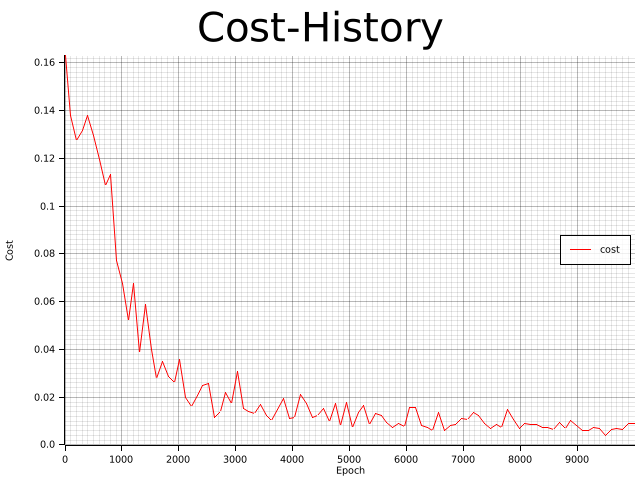
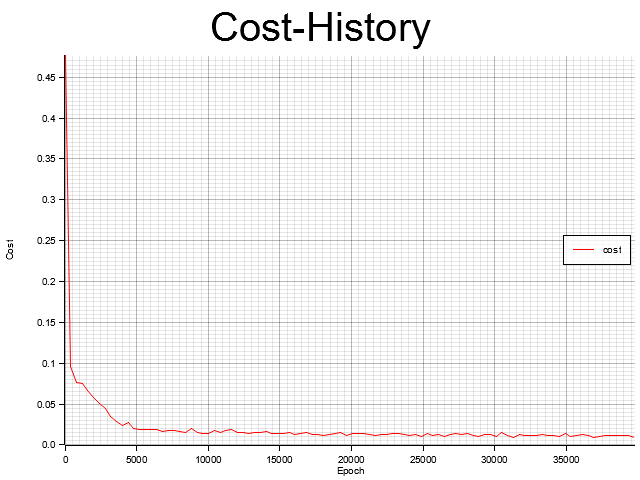
add linear activation function

diff --git a/src/main.rs b/src/main.rs
@@ -7,32 +7,39 @@ pub mod plotter;
 
 #[allow(unused_imports)]
 use crate::{
-    activation_function::{ID, RELU, SIGMOID},
+    activation_function::{LINEAR, RELU, SIGMOID},
     cost_function::QUADRATIC_COST,
-    data::RGB_DONUT,
-    data::{CIRCLE, XOR},
+    data::{CIRCLE, RGB_DONUT, XOR},
     neural_network::{Network, Summary},
     optimizer::sgd_optimzer::SGD,
     plotter::{graph_plotter::plot_graph, png_plotter::plot_png},
 };
 
 fn main() {
-    let mut optimizer = SGD::new(0.1, 0.3, 0.0001);
-    let mut network = Network::new(
-        &[2, 64, 64, 64, 64, 64, 3],
-        &mut optimizer,
-        &RELU,
-        &QUADRATIC_COST,
-    );
+    let mut optimizer = SGD::new(0.1, 0.5, 0.0005);
+
+    let network_shape = [
+        (&RELU, 2),
+        (&RELU, 64),
+        (&RELU, 64),
+        (&RELU, 64),
+        (&LINEAR, 3),
+    ];
+
+    let mut network = Network::new(&network_shape, &mut optimizer, &QUADRATIC_COST);
 
     //Train
     let dataset = &RGB_DONUT;
-    let cost_history = network.train_and_log(dataset, 256, 512, 10000);
+    let cost_history = network.train_and_log(dataset, 128, 512, 10000);
 
     //Plot
-    let (dim, unit_square_prediction) = network.predict_unit_square(128);
+    let (dim, unit_square_prediction) = network.predict_unit_square(512);
 
     let name = String::from(dataset.name) + "_" + &network.summerize();
+
+
+    println!("name: {}", name);
+
     plot_png(&name, dim, &unit_square_prediction, png::ColorType::Rgb).unwrap();
     plot_graph(format!("{}_history", name), &cost_history).unwrap();
 }

diff --git a/src/neural_network.rs b/src/neural_network.rs
@@ -12,21 +12,22 @@ use self::layer::Layer;
 pub struct Network<'a> {
     pub layers: Vec<Layer<'a>>,
     optimizer: &'a mut dyn Optimizer,
-    pub shape: &'a [usize],
+    pub shape: &'a [(&'a ActivationFunction, usize)],
     pub cost_function: &'a CostFunction,
 }
 
 #[allow(non_snake_case)]
 impl Network<'_> {
     pub fn new<'a>(
-        shape: &'a [usize],
+        shape: &'a [(&ActivationFunction, usize)],
         optimizer: &'a mut dyn Optimizer,
-        activation_function: &'a ActivationFunction,
         cost_function: &'a CostFunction,
     ) -> Network<'a> {
         let mut layers = Vec::new();
         for i in 0..shape.len() - 1 {
-            layers.push(Layer::new(shape[i], shape[i + 1], &activation_function));
+            let (activation_function, input_size) = shape[i];
+            let (_, output_size) = shape[i + 1];
+            layers.push(Layer::new(input_size, output_size, activation_function));
         }
 
         optimizer.initialize(&layers);
@@ -181,6 +182,8 @@ pub trait Summary {
 
 impl Summary for Network<'_> {
     fn summerize(&self) -> String {
-        format!("{}_{:?}", self.optimizer.summerize(), self.shape).replace(" ", "")
+        let shape = self.shape.iter().map(|x| x.1).collect::<Vec<_>>();
+
+        format!("{}_{:?}", self.optimizer.summerize(), shape).replace(" ", "")
     }
 }

diff --git a/src/activation_function/mod.rs b/src/activation_function/mod.rs
@@ -24,7 +24,7 @@ pub static RELU: ActivationFunction = ActivationFunction {
     d: (|x: f64| if x > 0.0 { 1.0 } else { 0.0 }),
 };
 
-pub static ID: ActivationFunction = ActivationFunction {
+pub static LINEAR: ActivationFunction = ActivationFunction {
     f: (|x: f64| x),
     d: (|_x: f64| 1.0),
 };
